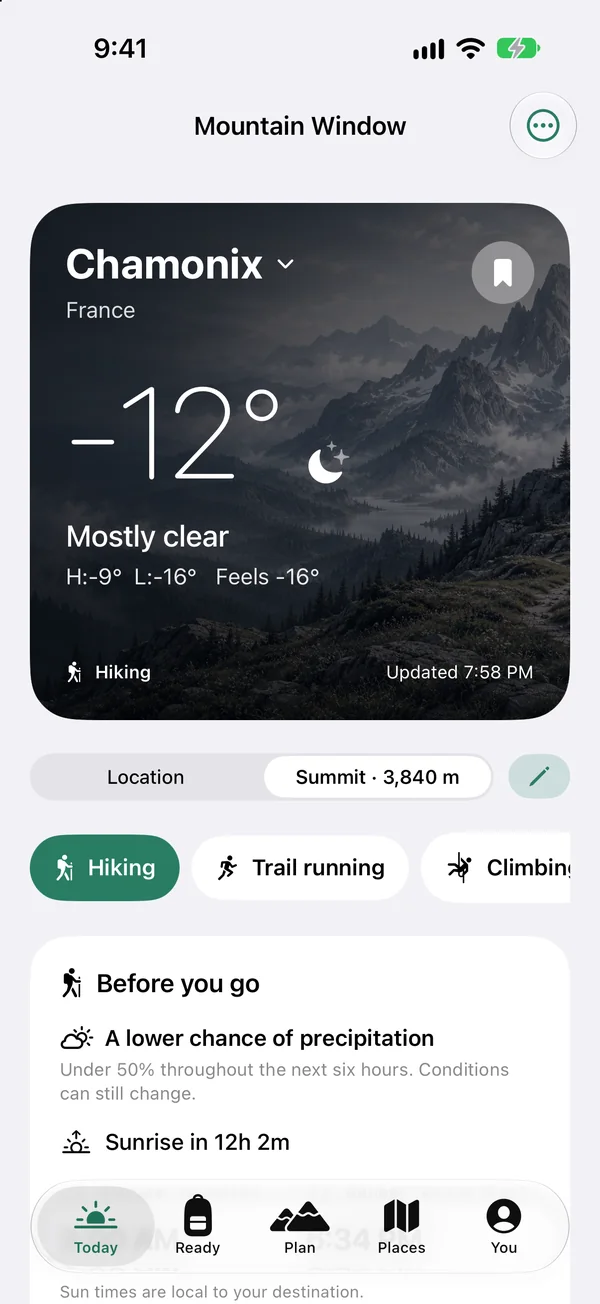
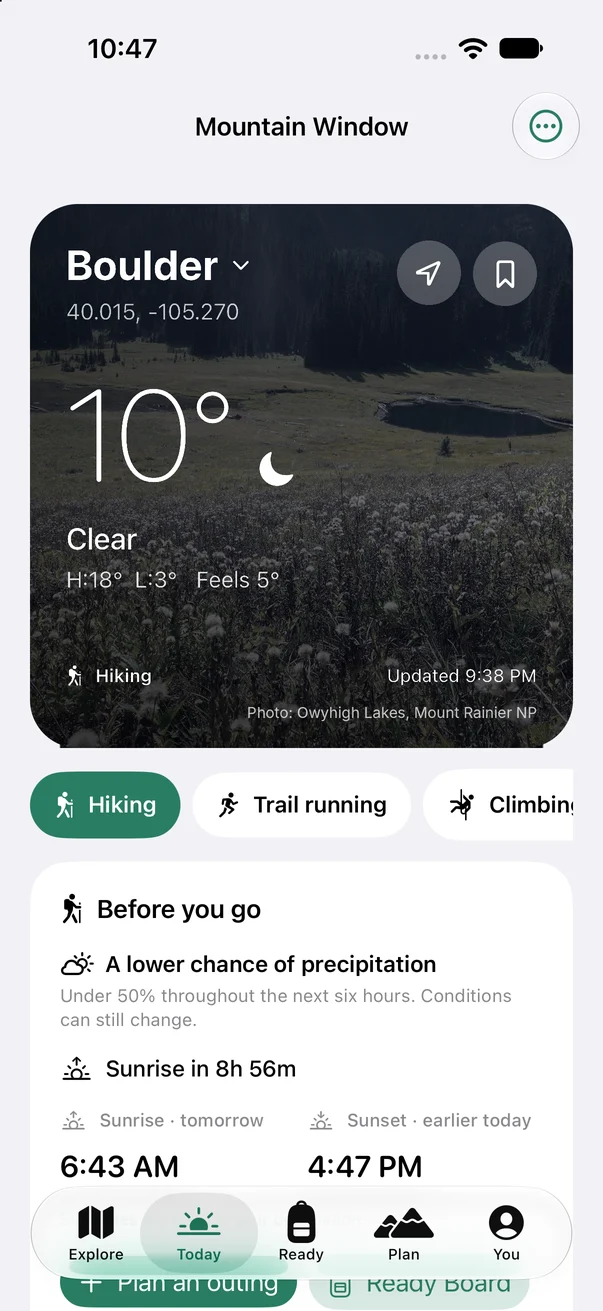
Mountain Window's new look and Skipline in Coming soon
Mountain Window gets its new icon, a Rainier meadow photo and a Today screen
with the 4.1 photo background. Skipline joins Coming soon with its icon and
the medium remote widget.

Claude-Session: https://claude.ai/code/session_01MciwxAAvEBenDmFqJwDnuz

diff --git a/index.html b/index.html
@@ -4,7 +4,7 @@
 <meta charset="utf-8">
 <meta name="viewport" content="width=device-width, initial-scale=1">
 <title>Cloudshadow Studios</title>
-<meta name="description" content="Cloudshadow Studios makes useful apps and games with the outdoors in mind, including Habitcrawl, Little Relay, Bog Blitz, Daybreak and Mountain Window.">
+<meta name="description" content="Cloudshadow Studios makes useful apps and games with the outdoors in mind, including Habitcrawl, Little Relay, Bog Blitz, Daybreak, Mountain Window and Skipline.">
 <meta name="theme-color" content="#0a111c">
 <link rel="icon" href="assets/icon-64.png" type="image/png">
 <link rel="apple-touch-icon" href="assets/mark-180.png">
@@ -14,8 +14,8 @@
 <meta property="og:url" content="https://cloudshadowstudios.com/">
 <meta name="twitter:card" content="summary_large_image">
 <link rel="preload" href="assets/fonts/newsreader-latin-opsz.woff2" as="font" type="font/woff2" crossorigin>
-<link rel="stylesheet" href="assets/site.css?v=alp14">
-<script src="assets/flight.js?v=alp14" defer></script>
+<link rel="stylesheet" href="assets/site.css?v=alp15">
+<script src="assets/flight.js?v=alp15" defer></script>
 </head>
 <body class="home">
 <a class="skip" href="#main">Skip to content</a>
@@ -124,12 +124,18 @@
         <p class="eyebrow">On the way</p>
         <h2 id="soon-h">Coming soon</h2>
       </header>
-      <div class="cards two">
+      <div class="cards">
         <article class="card">
-          <div class="card-art art-shot"><img src="assets/games/mountain-window-widget.webp" alt="Mountain Window widget ranking the best hiking windows in Chamonix" width="784" height="396" loading="lazy"></div>
+          <div class="card-art art-photo"><img class="bg" src="assets/games/mountain-window-rainier.webp" alt="" width="1200" height="800" loading="lazy"><img class="icon" src="assets/icons/mountain-window.png" alt="Mountain Window app icon" width="128" height="128" loading="lazy"><img class="peek" src="assets/games/mountain-window-today.webp" alt="Mountain Window’s Today screen for Boulder, with a photo of a Mount Rainier meadow behind the forecast" width="603" height="1311" loading="lazy"></div>
           <h3>Mountain Window</h3>
-          <p>Find the best weather window for your next outing, ranked hour by hour, with when to leave and what to pack.</p>
-          <p class="tag">iPhone, iPad and Mac</p>
+          <p>Find the best weather window for your next outing, ranked hour by hour, with when to leave and what to pack. Explore trailheads and launch sites on the map.</p>
+          <p class="tag">iPhone, iPad, Mac and Apple Watch</p>
+        </article>
+        <article class="card">
+          <div class="card-art art-remote"><img class="icon" src="assets/icons/skipline.png" alt="Skipline app icon" width="128" height="128" loading="lazy"><img class="widget" src="assets/games/skipline-widget.webp" alt="Skipline’s medium Home Screen widget: a full TV remote with power, arrows, OK, play and volume buttons" width="1092" height="510" loading="lazy"></div>
+          <h3>Skipline</h3>
+          <p>An ad-free remote for Roku TVs. Tap an app on your iPhone and the TV turns on and opens it, skipping the ad-filled home screen. Work the TV from a widget or your Lock Screen without opening the app.</p>
+          <p class="tag">iPhone · Roku TVs</p>
         </article>
         <article class="card">
           <div class="card-art art-shot cover"><img src="assets/games/wildline-title.webp" alt="Wildline title screen: a runner on a trail below Yosemite’s granite walls" width="1434" height="660" loading="lazy"></div>

diff --git a/assets/site.css b/assets/site.css
@@ -271,3 +271,10 @@ h3{font-size:clamp(1.7rem,3vw,2.2rem);line-height:1.1;font-weight:420}
 .feature-art .phone-tall img{aspect-ratio:322/700}
 .cards.two{grid-template-columns:repeat(2,minmax(0,1fr))}
 @media (max-width:860px){.cards.two{grid-template-columns:1fr}}
+.art-photo,.art-remote{position:relative;display:block}
+.art-photo .bg{position:absolute;inset:0;width:100%;height:100%;object-fit:cover;filter:saturate(.85) brightness(.72)}
+.art-photo .icon,.art-remote .icon{position:absolute;left:9%;top:50%;width:26%;transform:translateY(-50%);box-shadow:0 0 0 1px #ffffff30,0 18px 36px -12px #000a}
+.art-photo .peek{position:absolute;right:10%;top:12%;width:32%;border-radius:14px;box-shadow:0 0 0 4px #15181e,0 0 0 5px #3b3f47,0 24px 40px -10px #000c}
+.art-remote{background:radial-gradient(120% 90% at 70% 20%,#23345c,#0b1220)}
+.art-remote .icon{left:6%;top:8%;width:19%;transform:none;z-index:2}
+.art-remote .widget{position:absolute;right:6%;bottom:9%;width:74%;border-radius:18px;box-shadow:0 0 0 1px #ffffff1a,0 24px 40px -14px #000}

diff --git a/bog-blitz/privacy/index.html b/bog-blitz/privacy/index.html
@@ -8,7 +8,7 @@
 <meta name="theme-color" content="#1c2b3a">
 <link rel="icon" href="../../assets/icon-64.png" type="image/png">
 <link rel="apple-touch-icon" href="../../assets/mark-180.png">
-<link rel="stylesheet" href="../../assets/site.css?v=alp14">
+<link rel="stylesheet" href="../../assets/site.css?v=alp15">
 </head>
 <body>
 <a class="skip" href="#content">Skip to content</a>

diff --git a/bog-blitz/support/index.html b/bog-blitz/support/index.html
@@ -8,7 +8,7 @@
 <meta name="theme-color" content="#1c2b3a">
 <link rel="icon" href="../../assets/icon-64.png" type="image/png">
 <link rel="apple-touch-icon" href="../../assets/mark-180.png">
-<link rel="stylesheet" href="../../assets/site.css?v=alp14">
+<link rel="stylesheet" href="../../assets/site.css?v=alp15">
 </head>
 <body>
 <a class="skip" href="#content">Skip to content</a>

diff --git a/habitcrawl/privacy/index.html b/habitcrawl/privacy/index.html
@@ -8,7 +8,7 @@
 <meta name="theme-color" content="#1c2b3a">
 <link rel="icon" href="../../assets/icon-64.png" type="image/png">
 <link rel="apple-touch-icon" href="../../assets/mark-180.png">
-<link rel="stylesheet" href="../../assets/site.css?v=alp14">
+<link rel="stylesheet" href="../../assets/site.css?v=alp15">
 </head>
 <body>
 <a class="skip" href="#content">Skip to content</a>

diff --git a/habitcrawl/support/index.html b/habitcrawl/support/index.html
@@ -8,7 +8,7 @@
 <meta name="theme-color" content="#1c2b3a">
 <link rel="icon" href="../../assets/icon-64.png" type="image/png">
 <link rel="apple-touch-icon" href="../../assets/mark-180.png">
-<link rel="stylesheet" href="../../assets/site.css?v=alp14">
+<link rel="stylesheet" href="../../assets/site.css?v=alp15">
 </head>
 <body>
 <a class="skip" href="#content">Skip to content</a>

diff --git a/habitcrawl/terms/index.html b/habitcrawl/terms/index.html
@@ -8,7 +8,7 @@
 <meta name="theme-color" content="#1c2b3a">
 <link rel="icon" href="../../assets/icon-64.png" type="image/png">
 <link rel="apple-touch-icon" href="../../assets/mark-180.png">
-<link rel="stylesheet" href="../../assets/site.css?v=alp14">
+<link rel="stylesheet" href="../../assets/site.css?v=alp15">
 </head>
 <body>
 <a class="skip" href="#content">Skip to content</a>

diff --git a/little-relay/privacy/index.html b/little-relay/privacy/index.html
@@ -8,7 +8,7 @@
 <meta name="theme-color" content="#1c2b3a">
 <link rel="icon" href="../../assets/icon-64.png" type="image/png">
 <link rel="apple-touch-icon" href="../../assets/mark-180.png">
-<link rel="stylesheet" href="../../assets/site.css?v=alp14">
+<link rel="stylesheet" href="../../assets/site.css?v=alp15">
 </head>
 <body>
 <a class="skip" href="#content">Skip to content</a>

diff --git a/little-relay/support/index.html b/little-relay/support/index.html
@@ -8,7 +8,7 @@
 <meta name="theme-color" content="#1c2b3a">
 <link rel="icon" href="../../assets/icon-64.png" type="image/png">
 <link rel="apple-touch-icon" href="../../assets/mark-180.png">
-<link rel="stylesheet" href="../../assets/site.css?v=alp14">
+<link rel="stylesheet" href="../../assets/site.css?v=alp15">
 </head>
 <body>
 <a class="skip" href="#content">Skip to content</a>

diff --git a/little-relay/terms/index.html b/little-relay/terms/index.html
@@ -8,7 +8,7 @@
 <meta name="theme-color" content="#1c2b3a">
 <link rel="icon" href="../../assets/icon-64.png" type="image/png">
 <link rel="apple-touch-icon" href="../../assets/mark-180.png">
-<link rel="stylesheet" href="../../assets/site.css?v=alp14">
+<link rel="stylesheet" href="../../assets/site.css?v=alp15">
 </head>
 <body>
 <a class="skip" href="#content">Skip to content</a>

diff --git a/skipline/privacy/index.html b/skipline/privacy/index.html
@@ -8,7 +8,7 @@
 <meta name="theme-color" content="#1c2b3a">
 <link rel="icon" href="../../assets/icon-64.png" type="image/png">
 <link rel="apple-touch-icon" href="../../assets/mark-180.png">
-<link rel="stylesheet" href="../../assets/site.css?v=alp14">
+<link rel="stylesheet" href="../../assets/site.css?v=alp15">
 </head>
 <body>
 <a class="skip" href="#content">Skip to content</a>

diff --git a/bog-blitz/index.html b/bog-blitz/index.html
@@ -8,7 +8,7 @@
 <meta name="theme-color" content="#1c2b3a">
 <link rel="icon" href="../assets/icon-64.png" type="image/png">
 <link rel="apple-touch-icon" href="../assets/mark-180.png">
-<link rel="stylesheet" href="../assets/site.css?v=alp14">
+<link rel="stylesheet" href="../assets/site.css?v=alp15">
 </head>
 <body>
 <a class="skip" href="#content">Skip to content</a>
